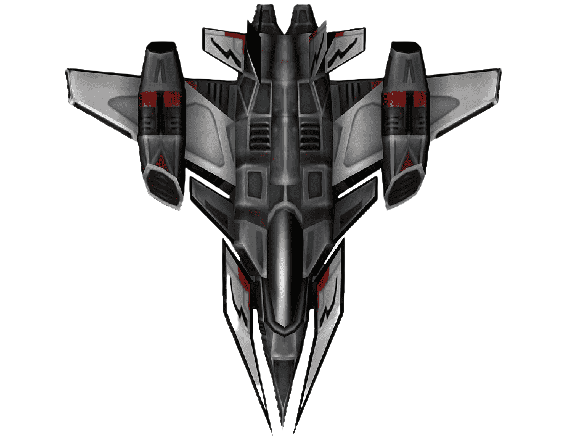
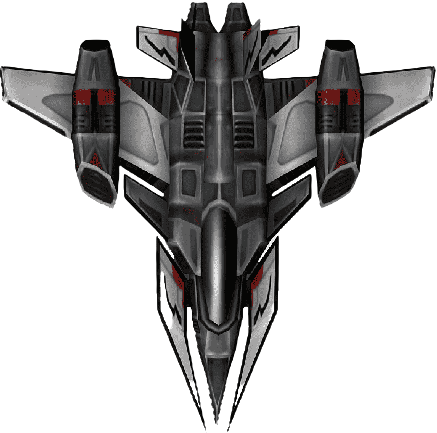
player & enemies with textures

Changed region(s): [[0.0, 0.0, 1.0, 0.9908]]

diff --git a/Game.cpp b/Game.cpp
@@ -32,12 +32,6 @@
         this->initPlayer();
         this->initShoot();
 
-        this->plane.loadFromFile("fight_plane_1.png");
-        this->sprite.setTexture(this->plane);
-        this->sprite.setScale(sf::Vector2f(0.2f, 0.2f));
-        this->sprite.setPosition(sf::Vector2f(100.f, 100.f));
-        this->sprite.setColor(sf::Color::Red);
-
     }
 
     void Game::initWindow()
@@ -48,13 +42,27 @@
 
     void Game::initEnemy()
     {
+        /* rectangles enmeies 
         this->enemie.setPosition(sf::Vector2f(10.f , 10.f));
         this->enemie.setSize(sf::Vector2f(100.f , 100.f));
         this->enemie.setScale(sf::Vector2f(0.5f, 0.5f)); // 50% of its orignal size
         this->enemie.setFillColor(sf::Color::Blue);
         this->enemie.setOutlineColor(sf::Color::White);
         this->enemie.setOutlineThickness(2.f); 
+       */
+
+        /* for texture enemy*/
+
+        this->enemie_texture.loadFromFile("fight_plane_1.png");
+        this->enemie.setTexture(this->enemie_texture);
+        this->enemie.setScale(sf::Vector2f(0.01f, 0.01f));
+        this->enemie.setColor(sf::Color::Red);
         
+        int hEnemie = this->enemie.getTexture()->getSize().y * enemie.getScale().y ,
+         lEnemie = this->enemie.getTexture()->getSize().x * enemie.getScale().x ;
+
+        this->enemie.setPosition(sf::Vector2f(20.f, 20.f));
+    
     }
 
     void Game::initFont()
@@ -281,21 +289,21 @@
             -add enemy to the vector
         */
 
-       this->enemie.setPosition(
-        static_cast<float> (rand() % static_cast<int>(this->fenetre->getSize().x - this->enemie.getSize().x) ) ,
-        0.f 
-       );
 
-       this->enemie.setFillColor(sf::Color(
+       this->enemie.setColor(sf::Color(
         static_cast<int>(rand() % 255 ), 
         static_cast<int>(rand() % 255 ),
         static_cast<int>(rand() % 255 ), 255 ) 
         );
         
         // random scale if wanted
-        float sizeEnemy , minSize = 0.2;
+        float sizeEnemy , minSize = 0.5;
         sizeEnemy = (static_cast<float>(rand() % 80) / 100) + minSize;
-        this->enemie.setScale(sf::Vector2f( sizeEnemy , sizeEnemy));
+        this->enemie.setScale(sf::Vector2f( 0.3*sizeEnemy , 0.3*sizeEnemy));
+
+
+        this->enemie.setPosition(
+        static_cast<float> (rand() % static_cast<int>(this->fenetre->getSize().x - sizeEnemy*0.3*this->enemie_texture.getSize().x) ) , 0.f );
         
         // spawn the enemy
         this->enemies.push_back(enemie);
@@ -459,14 +467,14 @@
             {
                // std::cout << "enmy size before : " <<this->enemies.size() << std::endl;
                 
-                yCondition = ( this->shoots[i].getPosition().y <=  this->enemies[j].getPosition().y + this->enemies[j].getSize().y  && 
+                yCondition = ( this->shoots[i].getPosition().y <=  this->enemies[j].getPosition().y + (this->enemies[j].getTexture()->getSize().y * this->enemies[j].getScale().y)  && 
                                 this->shoots[i].getPosition().y >=  this->enemies[j].getPosition().y );
                 xCondition = ( this->shoots[i].getPosition().x >= this->enemies[j].getPosition().x  &&  
-                                this->shoots[i].getPosition().x <=  this->enemies[j].getPosition().x +  this->enemies[j].getSize().x );
+                                this->shoots[i].getPosition().x <=  this->enemies[j].getPosition().x +  (this->enemies[j].getTexture()->getSize().x * this->enemies[j].getScale().x) );
                 
-                yplayerColisionCondition = ( this->player.getPosition().y <=  this->enemies[j].getPosition().y + this->enemies[j].getSize().y  );
+                yplayerColisionCondition = ( this->player.getPosition().y <=  this->enemies[j].getPosition().y + (this->enemies[j].getTexture()->getSize().y * this->enemies[j].getScale().y)  );
                 xplayerColisionCondition = ( this->player.getPosition().x + (this->player.getTexture()->getSize().x * player.getScale().x) >=  this->enemies[j].getPosition().x  && 
-                                this->player.getPosition().x <  this->enemies[j].getPosition().x +  this->enemies[j].getSize().x );
+                                this->player.getPosition().x <  this->enemies[j].getPosition().x + (this->enemies[j].getTexture()->getSize().x * this->enemies[j].getScale().x) );
 
                 if(  xCondition && yCondition )
                 {
@@ -529,7 +537,6 @@
         {
             this->fenetre->draw(e);
         }
-        this->fenetre->draw(sprite);
     }
 
     void Game::renderPlayer()

diff --git a/Game.h b/Game.h
@@ -56,13 +56,14 @@ private:
     
 
     /* Game objects */
-    sf::RectangleShape enemie;
-    sf::Texture plane;
-    sf::Sprite sprite;
-    std::vector <sf::RectangleShape> enemies;
+    sf::Texture enemie_texture;
+    sf::Sprite enemie;
+    std::vector <sf::Sprite> enemies;
+
     sf::Texture player_texture;
     sf::Sprite player;
     sf::Vector2i size_player;
+
     sf::RectangleShape shoot;
     std::vector <sf::RectangleShape> shoots;
 
